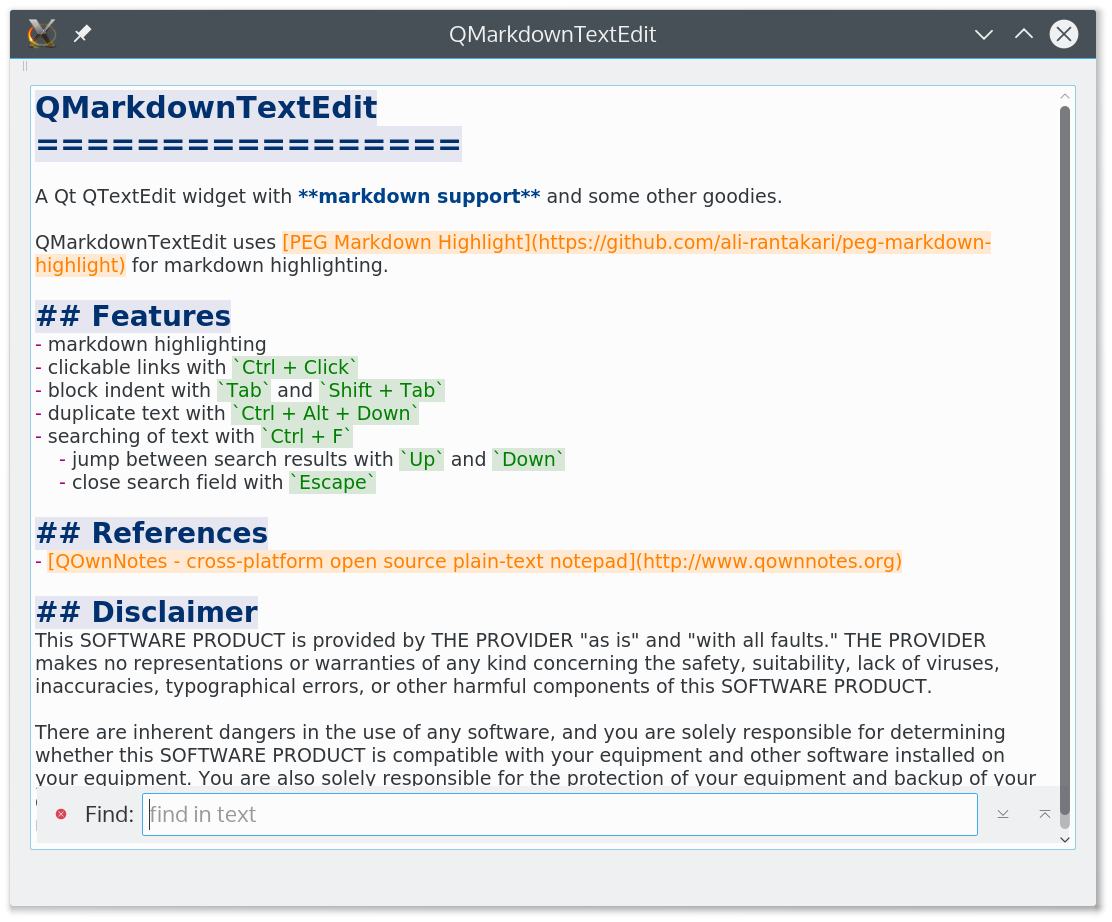
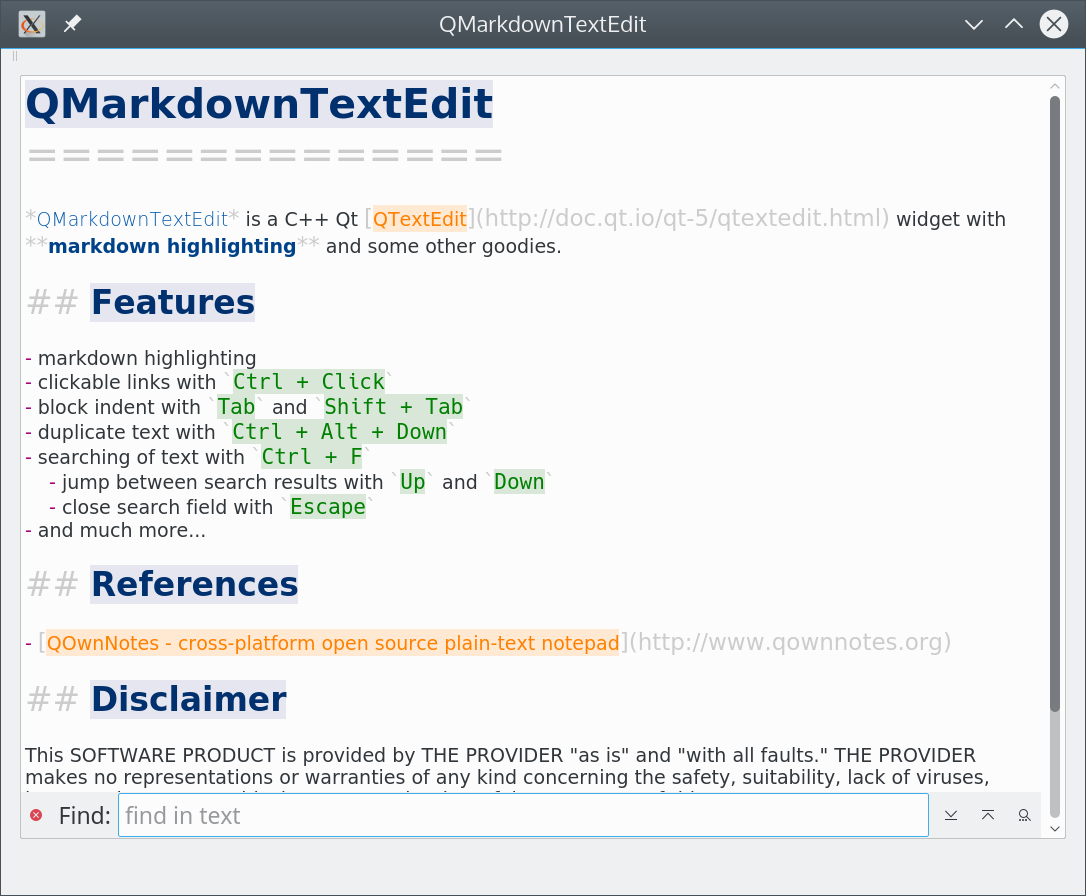
did some text, default style, readme changes and added a new screenshot

Changed region(s): [[0.0, 0.0, 1.0, 1.0]]

diff --git a/markdownhighlighter.cpp b/markdownhighlighter.cpp
@@ -223,12 +223,13 @@ void MarkdownHighlighter::initTextFormats(int defaultFontSize) {
     format.setForeground(QBrush(QColor(0, 49, 110)));
     format.setBackground(QBrush(QColor(230, 230, 240)));
     format.setFontWeight(QFont::Bold);
-    format.setFontPointSize(defaultFontSize * 1.2);
+    format.setFontPointSize(defaultFontSize * 1.6);
     _formats[H1] = format;
-    format.setFontPointSize(defaultFontSize * 1.1);
+    format.setFontPointSize(defaultFontSize * 1.3);
     _formats[H2] = format;
-    format.setFontPointSize(defaultFontSize);
+    format.setFontPointSize(defaultFontSize * 1.1);
     _formats[H3] = format;
+    format.setFontPointSize(defaultFontSize);
     _formats[H4] = format;
     _formats[H5] = format;
     _formats[H6] = format;
@@ -276,10 +277,14 @@ void MarkdownHighlighter::initTextFormats(int defaultFontSize) {
     format.setForeground(QBrush(QColor(0, 66, 138)));
     _formats[Bold] = format;
 
-    // set character format for comments and masked syntax
+    // set character format for comments
     format = QTextCharFormat();
     format.setForeground(QBrush(Qt::gray));
     _formats[Comment] = format;
+
+    // set character format for masked syntax
+    format = QTextCharFormat();
+    format.setForeground(QBrush("#cccccc"));
     _formats[MaskedSyntax] = format;
 
     // set character format for tables

diff --git a/README.md b/README.md
@@ -14,6 +14,7 @@ QMarkdownTextEdit is a C++ Qt [QTextEdit](http://doc.qt.io/qt-5/qtextedit.html) 
     - close search field with `Escape`
 - replacing of text with `Ctrl + R`
     - you can also replace text with regular expressions or whole words
+- and much more...
 
 ## Screenshot
 ![Screenhot](screenshot.png)
